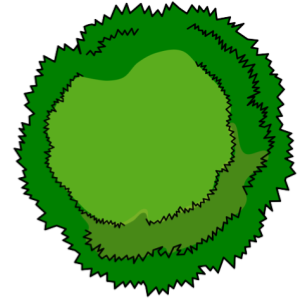
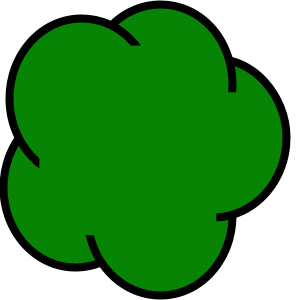
new tree image + tree angles

diff --git a/public/game.js b/public/game.js
@@ -84,9 +84,13 @@ class gamescene extends Phaser.Scene {
       this.nametext = new _objects_text_js__WEBPACK_IMPORTED_MODULE_1__["default"](this, this.player.x, this.player.y + _functions_js__WEBPACK_IMPORTED_MODULE_0__.radius + 20, this.name, { fontSize: 20, fontFamily: "sans-serif" }, 2, true);
       this.playerstext = new _objects_text_js__WEBPACK_IMPORTED_MODULE_1__["default"](this, 20, 20, "", { fontSize: 20, fontFamily: "Arial" }).setOrigin(0);
       this.scorestext = new _objects_text_js__WEBPACK_IMPORTED_MODULE_1__["default"](this, 200, 20, "", { fontSize: 20, fontFamily: "Arial" }).setOrigin(0);
+
       
-      this.fpstext = new _objects_text_js__WEBPACK_IMPORTED_MODULE_1__["default"](this, window.innerWidth - 150, 120, "FPS: 60", { fontSize: 30, fontFamily: "copperplate" });
-      this.tps = new _objects_text_js__WEBPACK_IMPORTED_MODULE_1__["default"](this, window.innerWidth - 150, 155, "TPS: 30", { fontSize: 30, fontFamily: "copperplate" });
+      this.gold = 0;
+      this.goldtext = new _objects_text_js__WEBPACK_IMPORTED_MODULE_1__["default"](this, window.innerWidth - 150, 50, "Gold: " + this.gold, { fontSize: 30, fontFamily: "copperplate" });
+      
+      this.fpstext = new _objects_text_js__WEBPACK_IMPORTED_MODULE_1__["default"](this, window.innerWidth - 150, 85, "FPS: 60", { fontSize: 30, fontFamily: "copperplate" });
+      this.tps = new _objects_text_js__WEBPACK_IMPORTED_MODULE_1__["default"](this, window.innerWidth - 150, 120, "TPS: 30", { fontSize: 30, fontFamily: "copperplate" });
 
       this.playerInfo = {
         x: this.player.x,
@@ -110,6 +114,7 @@ class gamescene extends Phaser.Scene {
       for(let i of _trees_json__WEBPACK_IMPORTED_MODULE_6__.trees){
         let tree = this.trees.create(i.x, i.y, "tree").setScale(i.size / _functions_js__WEBPACK_IMPORTED_MODULE_0__.treesize).setDepth(10).setAlpha(0.7);
         tree.id = i.id;
+        tree.angle = i.angle;
       }
       
       for(let oplayer of Object.keys(data.players)){
@@ -200,10 +205,6 @@ class gamescene extends Phaser.Scene {
 
     this.score = 0;
 
-    this.scoretext = new _objects_text_js__WEBPACK_IMPORTED_MODULE_1__["default"](this, window.innerWidth - 150, 50, "Score: " + this.score, { fontSize: 30, fontFamily: "copperplate" });
-
-    this.gold = 0;
-    this.goldtext = new _objects_text_js__WEBPACK_IMPORTED_MODULE_1__["default"](this, window.innerWidth - 150, 85, "Gold: " + this.gold, { fontSize: 30, fontFamily: "copperplate" });
 
     this.addWeaponActions();
 
@@ -304,7 +305,6 @@ class gamescene extends Phaser.Scene {
             game.playerstext.destroy();
             game.scorestext.destroy();
             game.goldtext.destroy();
-            game.scoretext.destroy();
             game.fpstext.destroy();
             game.tps.destroy();
             game.minimap.destroy();
@@ -779,7 +779,7 @@ class Minimap {
 /* 8 */
 /***/ ((module) => {
 
-module.exports = JSON.parse('{"trees":[{"id":0,"size":513,"x":2999.5,"y":3200.5},{"id":1,"size":333,"x":3520.5,"y":3089.5},{"id":2,"size":543,"x":2272.5,"y":2900.5},{"id":3,"size":525,"x":4204.5,"y":4578.5},{"id":4,"size":426,"x":800,"y":1638},{"id":5,"size":459,"x":3770.5,"y":3611.5},{"id":6,"size":306,"x":4820,"y":593},{"id":7,"size":516,"x":1905,"y":556},{"id":8,"size":258,"x":1699,"y":2130},{"id":9,"size":567,"x":2982.5,"y":3324.5},{"id":10,"size":384,"x":1235,"y":4383},{"id":11,"size":501,"x":1503.5,"y":845.5},{"id":12,"size":234,"x":2507,"y":2225},{"id":13,"size":573,"x":3603.5,"y":2764.5},{"id":14,"size":546,"x":932,"y":4000},{"id":15,"size":423,"x":1428.5,"y":1833.5},{"id":16,"size":312,"x":2421,"y":3723},{"id":17,"size":405,"x":3900.5,"y":845.5},{"id":18,"size":201,"x":2719.5,"y":391.5},{"id":19,"size":468,"x":4440,"y":1709},{"id":20,"size":177,"x":4050.5,"y":4853.5},{"id":21,"size":369,"x":390.5,"y":2925.5},{"id":22,"size":309,"x":4214.5,"y":2536.5},{"id":23,"size":300,"x":2497,"y":1842},{"id":24,"size":237,"x":3216.5,"y":2604.5},{"id":25,"size":504,"x":3299,"y":1806},{"id":26,"size":588,"x":298,"y":2039},{"id":27,"size":291,"x":2076.5,"y":1116.5},{"id":28,"size":438,"x":4619,"y":963},{"id":29,"size":216,"x":4264,"y":3225},{"id":30,"size":522,"x":3902,"y":4640},{"id":31,"size":291,"x":255.5,"y":1430.5},{"id":32,"size":342,"x":2779,"y":2066},{"id":33,"size":243,"x":4620.5,"y":703.5},{"id":34,"size":399,"x":296.5,"y":850.5},{"id":35,"size":465,"x":1834.5,"y":2910.5},{"id":36,"size":573,"x":3575.5,"y":2183.5},{"id":37,"size":174,"x":3732,"y":3574},{"id":38,"size":354,"x":1705,"y":4184},{"id":39,"size":231,"x":906.5,"y":2564.5},{"id":40,"size":213,"x":710.5,"y":4321.5},{"id":41,"size":366,"x":2553,"y":3555},{"id":42,"size":222,"x":4869,"y":2990},{"id":43,"size":471,"x":2366.5,"y":3879.5},{"id":44,"size":474,"x":1817,"y":2878},{"id":45,"size":249,"x":2129.5,"y":4789.5},{"id":46,"size":216,"x":1314,"y":4521},{"id":47,"size":207,"x":660.5,"y":2221.5},{"id":48,"size":219,"x":2154.5,"y":4158.5},{"id":49,"size":285,"x":3276.5,"y":3238.5},{"id":50,"size":300,"x":1452,"y":4306},{"id":51,"size":516,"x":3748,"y":733},{"id":52,"size":183,"x":1578.5,"y":3997.5},{"id":53,"size":537,"x":1250.5,"y":933.5},{"id":54,"size":504,"x":480,"y":1358},{"id":55,"size":390,"x":496,"y":2019}]}');
+module.exports = JSON.parse('{"trees":[{"id":0,"size":576,"x":3985,"y":1126,"angle":175},{"id":1,"size":423,"x":4783.5,"y":1563.5,"angle":206},{"id":2,"size":279,"x":367.5,"y":1010.5,"angle":310},{"id":3,"size":264,"x":1143,"y":3107,"angle":305},{"id":4,"size":384,"x":4233,"y":1235,"angle":294},{"id":5,"size":540,"x":325,"y":4273,"angle":332},{"id":6,"size":324,"x":4672,"y":1692,"angle":158},{"id":7,"size":381,"x":2755.5,"y":2820.5,"angle":102},{"id":8,"size":381,"x":3038.5,"y":1333.5,"angle":333},{"id":9,"size":375,"x":2325.5,"y":3962.5,"angle":168},{"id":10,"size":348,"x":3942,"y":1200,"angle":177},{"id":11,"size":294,"x":1189,"y":4250,"angle":144},{"id":12,"size":528,"x":1724,"y":4235,"angle":194},{"id":13,"size":195,"x":641.5,"y":1841.5,"angle":132},{"id":14,"size":390,"x":1035,"y":310,"angle":336},{"id":15,"size":213,"x":2123.5,"y":4393.5,"angle":70},{"id":16,"size":333,"x":836.5,"y":4239.5,"angle":54},{"id":17,"size":468,"x":1834,"y":2573,"angle":225},{"id":18,"size":459,"x":2332.5,"y":1268.5,"angle":175},{"id":19,"size":552,"x":4403,"y":390,"angle":127},{"id":20,"size":240,"x":2744,"y":4120,"angle":300},{"id":21,"size":351,"x":1183.5,"y":1256.5,"angle":199},{"id":22,"size":237,"x":2452.5,"y":4471.5,"angle":279},{"id":23,"size":240,"x":1609,"y":1864,"angle":197},{"id":24,"size":243,"x":4498.5,"y":4333.5,"angle":169},{"id":25,"size":546,"x":805,"y":3305,"angle":234},{"id":26,"size":369,"x":640.5,"y":1484.5,"angle":235},{"id":27,"size":453,"x":1204.5,"y":3472.5,"angle":180},{"id":28,"size":552,"x":1813,"y":3222,"angle":65},{"id":29,"size":414,"x":3379,"y":2629,"angle":201},{"id":30,"size":153,"x":3743.5,"y":3468.5,"angle":143},{"id":31,"size":579,"x":3095.5,"y":2582.5,"angle":333},{"id":32,"size":174,"x":2469,"y":3503,"angle":172},{"id":33,"size":339,"x":411.5,"y":4400.5,"angle":198},{"id":34,"size":489,"x":4164.5,"y":3071.5,"angle":351},{"id":35,"size":189,"x":4819.5,"y":212.5,"angle":167},{"id":36,"size":567,"x":1672.5,"y":2857.5,"angle":292},{"id":37,"size":186,"x":4358,"y":1257,"angle":11},{"id":38,"size":186,"x":4669,"y":3182,"angle":254},{"id":39,"size":552,"x":3384,"y":667,"angle":314},{"id":40,"size":531,"x":2407.5,"y":3444.5,"angle":85},{"id":41,"size":456,"x":4548,"y":3396,"angle":92},{"id":42,"size":282,"x":4243,"y":2060,"angle":144},{"id":43,"size":588,"x":1749,"y":1870,"angle":92},{"id":44,"size":582,"x":359,"y":3116,"angle":29},{"id":45,"size":564,"x":1067,"y":1963,"angle":79},{"id":46,"size":273,"x":4299.5,"y":511.5,"angle":265},{"id":47,"size":579,"x":293.5,"y":4051.5,"angle":354},{"id":48,"size":546,"x":1911,"y":3967,"angle":313},{"id":49,"size":231,"x":1409.5,"y":1194.5,"angle":66},{"id":50,"size":216,"x":2141,"y":1113,"angle":255},{"id":51,"size":579,"x":3716.5,"y":3185.5,"angle":39},{"id":52,"size":537,"x":3291.5,"y":4598.5,"angle":97},{"id":53,"size":345,"x":1714.5,"y":3314.5,"angle":234}]}');
 
 /***/ }),
 /* 9 */

diff --git a/src/game/index.js b/src/game/index.js
@@ -65,9 +65,13 @@ class gamescene extends Phaser.Scene {
       this.nametext = new Text(this, this.player.x, this.player.y + radius + 20, this.name, { fontSize: 20, fontFamily: "sans-serif" }, 2, true);
       this.playerstext = new Text(this, 20, 20, "", { fontSize: 20, fontFamily: "Arial" }).setOrigin(0);
       this.scorestext = new Text(this, 200, 20, "", { fontSize: 20, fontFamily: "Arial" }).setOrigin(0);
+
       
-      this.fpstext = new Text(this, window.innerWidth - 150, 120, "FPS: 60", { fontSize: 30, fontFamily: "copperplate" });
-      this.tps = new Text(this, window.innerWidth - 150, 155, "TPS: 30", { fontSize: 30, fontFamily: "copperplate" });
+      this.gold = 0;
+      this.goldtext = new Text(this, window.innerWidth - 150, 50, "Gold: " + this.gold, { fontSize: 30, fontFamily: "copperplate" });
+      
+      this.fpstext = new Text(this, window.innerWidth - 150, 85, "FPS: 60", { fontSize: 30, fontFamily: "copperplate" });
+      this.tps = new Text(this, window.innerWidth - 150, 120, "TPS: 30", { fontSize: 30, fontFamily: "copperplate" });
 
       this.playerInfo = {
         x: this.player.x,
@@ -91,6 +95,7 @@ class gamescene extends Phaser.Scene {
       for(let i of trees.trees){
         let tree = this.trees.create(i.x, i.y, "tree").setScale(i.size / treesize).setDepth(10).setAlpha(0.7);
         tree.id = i.id;
+        tree.angle = i.angle;
       }
       
       for(let oplayer of Object.keys(data.players)){
@@ -181,10 +186,6 @@ class gamescene extends Phaser.Scene {
 
     this.score = 0;
 
-    this.scoretext = new Text(this, window.innerWidth - 150, 50, "Score: " + this.score, { fontSize: 30, fontFamily: "copperplate" });
-
-    this.gold = 0;
-    this.goldtext = new Text(this, window.innerWidth - 150, 85, "Gold: " + this.gold, { fontSize: 30, fontFamily: "copperplate" });
 
     this.addWeaponActions();
 
@@ -285,7 +286,6 @@ class gamescene extends Phaser.Scene {
             game.playerstext.destroy();
             game.scorestext.destroy();
             game.goldtext.destroy();
-            game.scoretext.destroy();
             game.fpstext.destroy();
             game.tps.destroy();
             game.minimap.destroy();

diff --git a/index.js b/index.js
@@ -40,12 +40,12 @@ app.set("view engine", "html");
 app.use(express.urlencoded({extended: true}));
 app.use(session({secret: process.env["secret"]}));
 
-const { random, generateCode, loggedIn, getUser, deleteUser, verify } = require("./functions.js");
+const { random, generateCode, loggedIn, getUser, deleteUser, verify } = require("./game/functions.js");
 
 const api = require("./api.js");
-const socketfunc = require("./socket.js");
-const skins = require("./skins.js");
-const update = require("./update.js");
+const socketfunc = require("./game/socket.js");
+const skins = require("./game/skins.js");
+const update = require("./game/update.js");
 const Database = require("./db.js");
 
 global.db = new Database();

diff --git a/game/trees.js b/game/trees.js
@@ -13,7 +13,8 @@ for(let i = 0; i < random(50, 75); i++){
     id: i,
     size: realsize,
     x: random(realsize / 2, size - realsize / 2),
-    y: random(realsize / 2, size - realsize / 2)
+    y: random(realsize / 2, size - realsize / 2),
+    angle: random(0, 360)
   });
 }
 
